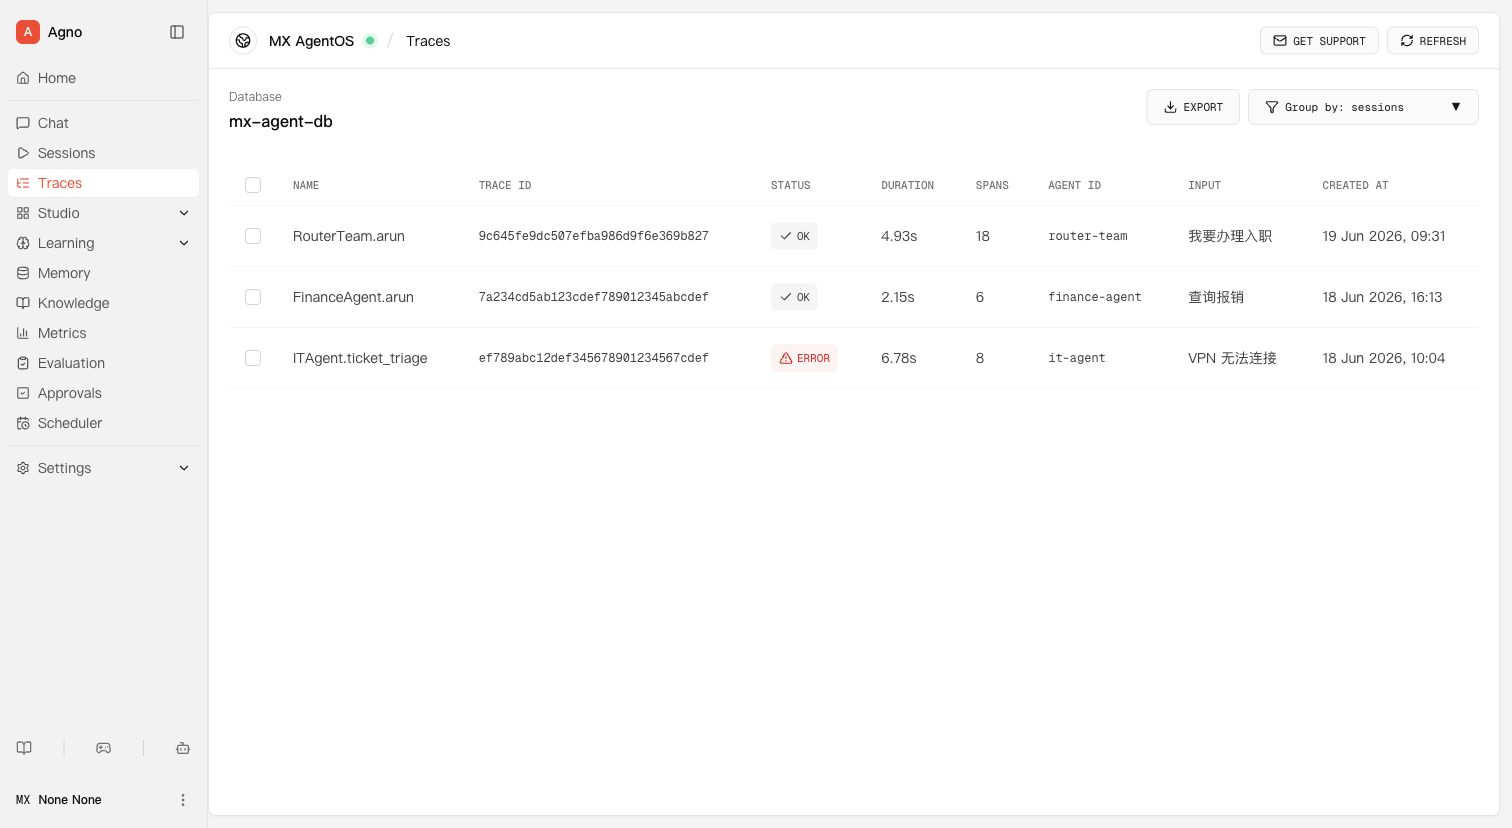
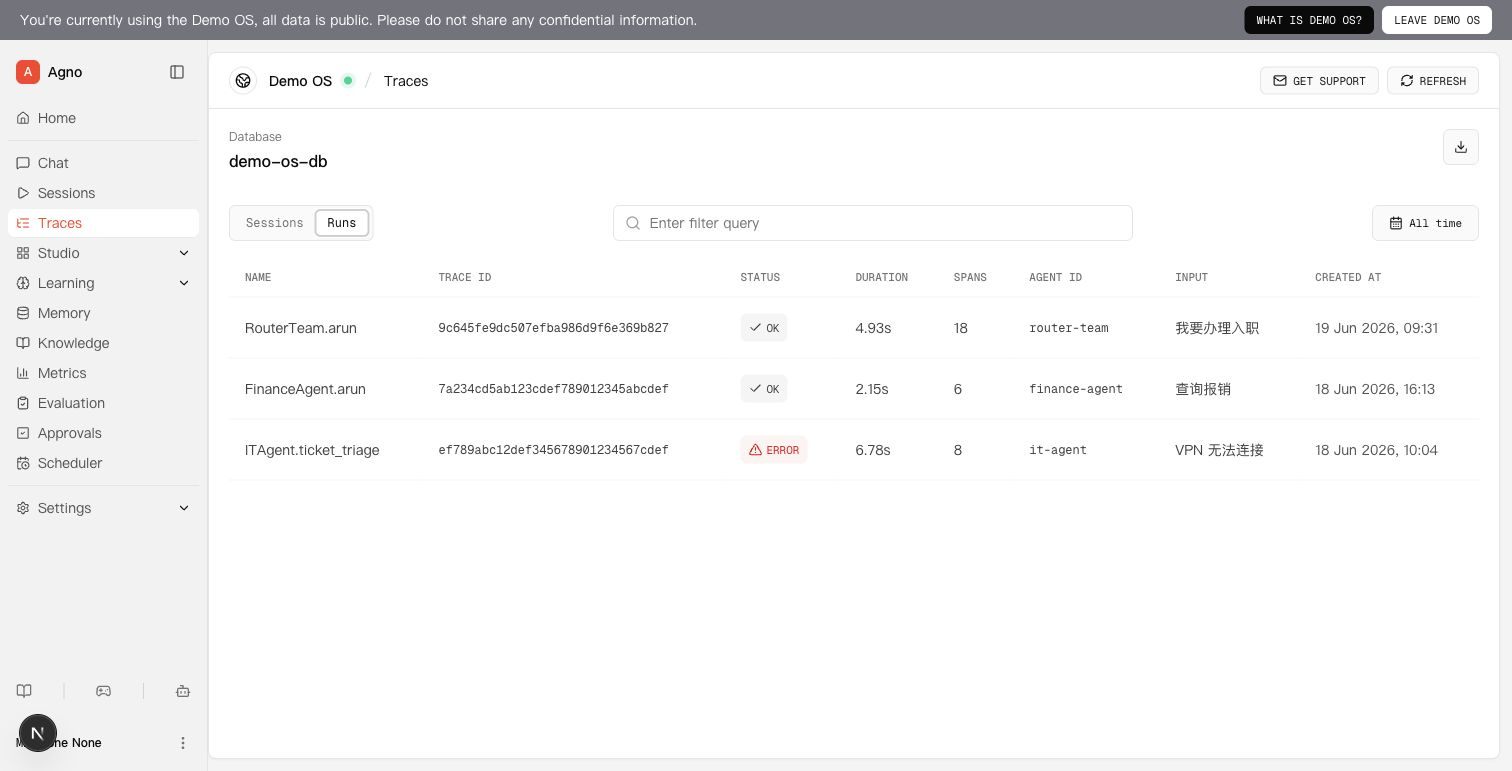
test(视觉矩阵): 添加 Traces Runs 列表门禁

diff --git a/frontend/src/components/agentos/trace-explorer.tsx b/frontend/src/components/agentos/trace-explorer.tsx
@@ -19,6 +19,7 @@ import type { TableResponse } from "@/lib/agentos-types";
 import { cn } from "@/lib/utils";
 
 type TraceTab = "info" | "metadata";
+type TraceView = "sessions" | "runs";
 type TextMode = "text" | "formatted";
 
 const traceSpans = [
@@ -86,11 +87,15 @@ function StatusBadge({ status }: { status: string }) {
 export function TraceExplorer({ table }: { table: TableResponse }) {
   const [selectedId, setSelectedId] = useState<string | null>(null);
   const [exported, setExported] = useState(false);
+  const [traceView, setTraceView] = useState<TraceView>("sessions");
   const displayDatabase = table.database === "mx-agent-db" ? "demo-os-db" : table.database;
 
   const selectedRow = useMemo(
-    () => traceSessionRows.find((row) => row.id === selectedId) ?? null,
-    [selectedId],
+    () =>
+      traceView === "sessions"
+        ? traceSessionRows.find((row) => row.id === selectedId) ?? null
+        : table.rows.find((row) => value(row, "id", "") === selectedId) ?? null,
+    [selectedId, table.rows, traceView],
   );
 
   if (selectedRow) {
@@ -120,10 +125,30 @@ export function TraceExplorer({ table }: { table: TableResponse }) {
 
       <div className="mb-4 flex items-center justify-between gap-4">
         <div className="inline-flex h-9 rounded-md border border-neutral-200 bg-neutral-50 p-1 font-mono text-xs uppercase">
-          <button className="h-full rounded-sm bg-white px-3 shadow-sm" type="button">
+          <button
+            className={cn(
+              "h-full rounded-sm px-3",
+              traceView === "sessions" ? "bg-white shadow-sm" : "text-neutral-500",
+            )}
+            onClick={() => {
+              setTraceView("sessions");
+              setSelectedId(null);
+            }}
+            type="button"
+          >
             Sessions
           </button>
-          <button className="h-full rounded-sm px-3 text-neutral-500" type="button">
+          <button
+            className={cn(
+              "h-full rounded-sm px-3",
+              traceView === "runs" ? "bg-white shadow-sm" : "text-neutral-500",
+            )}
+            onClick={() => {
+              setTraceView("runs");
+              setSelectedId(null);
+            }}
+            type="button"
+          >
             Runs
           </button>
         </div>
@@ -142,39 +167,102 @@ export function TraceExplorer({ table }: { table: TableResponse }) {
       </div>
 
       <div className="min-h-0 flex-1 overflow-auto">
-        <table className="w-full border-collapse text-left text-sm">
-          <thead>
-            <tr className="border-b border-neutral-100 text-[11px] uppercase text-neutral-500">
-              <th className="px-4 py-3 font-mono font-medium">Session ID</th>
-              <th className="px-4 py-3 font-mono font-medium">User</th>
-              <th className="px-4 py-3 font-mono font-medium">Agent/Team/Workflow</th>
-              <th className="px-4 py-3 font-mono font-medium">Traces</th>
-              <th className="px-4 py-3 font-mono font-medium">First Trace</th>
-              <th className="px-4 py-3 font-mono font-medium">Last Trace</th>
-            </tr>
-          </thead>
-          <tbody>
-            {traceSessionRows.map((row) => {
-              const id = String(row.id);
-              return (
-                <tr
-                  className="h-14 cursor-pointer border-b border-neutral-100 text-neutral-700 hover:bg-neutral-50"
-                  key={id}
-                  onClick={() => setSelectedId(id)}
-                >
-                  <td className="px-4 py-4 font-mono text-xs">{row.session_id}</td>
-                  <td className="px-4 py-4">{row.user}</td>
-                  <td className="px-4 py-4">{row.target}</td>
-                  <td className="px-4 py-4">{row.traces}</td>
-                  <td className="px-4 py-4 text-neutral-600">{row.first_trace}</td>
-                  <td className="px-4 py-4 text-neutral-600">{row.last_trace}</td>
-                </tr>
-              );
-            })}
-          </tbody>
-        </table>
+        {traceView === "sessions" ? (
+          <SessionsTraceTable onSelect={setSelectedId} />
+        ) : (
+          <RunsTraceTable columns={table.columns} onSelect={setSelectedId} rows={table.rows} />
+        )}
       </div>
     </div>
+  );
+}
+
+function SessionsTraceTable({ onSelect }: { onSelect: (id: string) => void }) {
+  return (
+    <table className="w-full border-collapse text-left text-sm">
+      <thead>
+        <tr className="border-b border-neutral-100 text-[11px] uppercase text-neutral-500">
+          <th className="px-4 py-3 font-mono font-medium">Session ID</th>
+          <th className="px-4 py-3 font-mono font-medium">User</th>
+          <th className="px-4 py-3 font-mono font-medium">Agent/Team/Workflow</th>
+          <th className="px-4 py-3 font-mono font-medium">Traces</th>
+          <th className="px-4 py-3 font-mono font-medium">First Trace</th>
+          <th className="px-4 py-3 font-mono font-medium">Last Trace</th>
+        </tr>
+      </thead>
+      <tbody>
+        {traceSessionRows.map((row) => {
+          const id = String(row.id);
+          return (
+            <tr
+              className="h-14 cursor-pointer border-b border-neutral-100 text-neutral-700 hover:bg-neutral-50"
+              key={id}
+              onClick={() => onSelect(id)}
+            >
+              <td className="px-4 py-4 font-mono text-xs">{row.session_id}</td>
+              <td className="px-4 py-4">{row.user}</td>
+              <td className="px-4 py-4">{row.target}</td>
+              <td className="px-4 py-4">{row.traces}</td>
+              <td className="px-4 py-4 text-neutral-600">{row.first_trace}</td>
+              <td className="px-4 py-4 text-neutral-600">{row.last_trace}</td>
+            </tr>
+          );
+        })}
+      </tbody>
+    </table>
+  );
+}
+
+function RunsTraceTable({
+  columns,
+  onSelect,
+  rows,
+}: {
+  columns: TableResponse["columns"];
+  onSelect: (id: string) => void;
+  rows: TableResponse["rows"];
+}) {
+  return (
+    <table className="w-full border-collapse text-left text-sm">
+      <thead>
+        <tr className="border-b border-neutral-100 text-[11px] uppercase text-neutral-500">
+          {columns.map((column) => (
+            <th className="px-4 py-3 font-mono font-medium" key={column.key}>
+              {column.label}
+            </th>
+          ))}
+        </tr>
+      </thead>
+      <tbody>
+        {rows.map((row, index) => {
+          const id = value(row, "id", `trace-${index}`);
+          return (
+            <tr
+              className="h-14 cursor-pointer border-b border-neutral-100 text-neutral-700 hover:bg-neutral-50"
+              key={id}
+              onClick={() => onSelect(id)}
+            >
+              {columns.map((column) => {
+                const cell = value(row, column.key, "—");
+                return (
+                  <td
+                    className={cn(
+                      "max-w-[260px] truncate px-4 py-4",
+                      column.mono && "font-mono text-xs",
+                      column.key === "created_at" && "text-neutral-600",
+                    )}
+                    key={`${id}-${column.key}`}
+                    title={cell}
+                  >
+                    {column.key === "status" ? <StatusBadge status={cell} /> : cell}
+                  </td>
+                );
+              })}
+            </tr>
+          );
+        })}
+      </tbody>
+    </table>
   );
 }
 

diff --git a/docs/agno-analysis/phase-1-verification.md b/docs/agno-analysis/phase-1-verification.md
@@ -1494,3 +1494,27 @@ repeatable measurement path for subsequent page-by-page iterations.
 - Added `sessions-row-click` using the compact 1512 x 772 viewport.
 - `pnpm visual:diff` now reports `44/44 passed`.
 - `sessions-row-click`: passed, different ratio `0.107023` against max `0.14`.
+
[phone redacted] Traces runs-list visual diff matrix expansion:
+
+- Rechecked
+  `https://os.agno.com/try-demo/traces?group_by=sessions&page=1&limit=25`
+  with Chrome/CDP. In the current anonymous Chrome session the route redirects
+  to
+  `https://os.agno.com/signin?callbackUrl=%2Ftry-demo%2Ftraces%3Fgroup_by%3Dsessions%26page%3D1%26limit%3D25`.
+- Observed auth traffic includes `GET https://os-api.agno.com/api/v1/users/me`,
+  `POST https://os-api.agno.com/api/v1/auth/authenticate`,
+  `POST https://os-api.agno.com/api/v1/auth/demo-sdk-token`, and
+  `POST https://os-api.agno.com/api/v1/auth/authrefresh`, all returning 401 in
+  the anonymous session before the sign-in page renders.
+- Preserved the previously captured Agno Traces list reference and expanded the
+  local segmented control so `Sessions` renders the grouped session table while
+  `Runs` renders the trace list table.
+- Re-captured `docs/agno-analysis/local-screenshots/traces-list.png` at
+  1512 x 771 after clicking `Runs`, verifying columns `NAME`, `TRACE ID`,
+  `STATUS`, `DURATION`, `SPANS`, `AGENT ID`, `INPUT`, and `CREATED AT`.
+- Added `desktop-traces-list` and `traces-list` to the official screenshot
+  comparison matrix.
+- `pnpm visual:diff` now reports `45/45 passed`.
+- `traces-list`: passed, different ratio `0.074854` against max `0.14`.
+- `pnpm lint` passed for the frontend component change.

diff --git a/docs/agno-analysis/page-inventory.md b/docs/agno-analysis/page-inventory.md
@@ -246,9 +246,12 @@ All screenshots were captured from the public Demo OS surface at a 1512 x 828 vi
 
 - Public demo state can show a `No traces logged` overlay while preserving a
   blurred trace-detail surface behind it.
-- Current public Demo OS state at
+- Previously captured public Demo OS state at
   `/try-demo/traces?group_by=sessions&page=1&limit=25` renders the grouped
   Sessions table instead of the older empty overlay.
+- Current anonymous Chrome state on 2026-06-19 redirects
+  `/try-demo/traces?group_by=sessions&page=1&limit=25` to `/signin` after
+  `users/me`, `auth/authenticate`, and `demo-sdk-token` return 401.
 - Authenticated/account state can show an inactive-AgentOS overlay over the
   traces table when the connected AgentOS is unreachable.
 - Grouped Sessions controls include `Sessions`/`Runs` segments, filter query
@@ -271,11 +274,18 @@ All screenshots were captured from the public Demo OS surface at a 1512 x 828 vi
   - 2026-06-19 follow-up: rechecked the public Demo OS route and observed
     populated grouped-session rows plus `/traces/filter-schema`, `/traces`,
     `/trace_session_stats`, and `/config` requests.
+  - 2026-06-19 later follow-up: the same route redirects the current anonymous
+    Chrome session to sign-in, so new implementation work preserves the
+    previously captured product references while documenting the current auth
+    gate.
   - Local implementation now mirrors the current public Demo OS grouped
     Sessions table state and keeps the trace detail explorer available after row
     click for subsequent trace-detail iteration.
-  - Traces is covered by the desktop screenshot diff gate for the grouped
-    Sessions table state.
+  - Local Traces supports the `Sessions` and `Runs` segmented states. `Runs`
+    renders the trace list columns Name, Trace ID, Status, Duration, Spans,
+    Agent ID, Input, and Created At.
+  - Traces is covered by desktop screenshot diff gates for both the grouped
+    Sessions table and the Runs trace-list table.
 
 ### Memory
 

diff --git a/docs/agno-analysis/visual-diffs/report.md b/docs/agno-analysis/visual-diffs/report.md
@@ -1,10 +1,10 @@
 # Visual Diff Report
 
-Generated: 2026-06-19T13:21:06.891Z
+Generated: 2026-06-19T13:28:42.964Z
 
 Config: `docs/agno-analysis/screenshot-comparison.config.json`
 
-Totals: 44/44 passed, 0 failed.
+Totals: 45/45 passed, 0 failed.
 
 | Status | Pair | Viewport | Reference | Local | Different ratio | Max ratio | Diff |
 | --- | --- | --- | --- | --- | --- | --- | --- |
@@ -39,6 +39,7 @@ pass | scheduler-gated-overlay | desktop | 1512x828 | 1512x828 | 0.057759 | 0.08
 pass | evaluation-list | desktop | 1512x828 | 1512x828 | 0.067094 | 0.12 | docs/agno-analysis/visual-diffs/diffs/evaluation-list.diff.png
 pass | evaluation-detail | desktop | 1512x828 | 1512x828 | 0.107163 | 0.12 | docs/agno-analysis/visual-diffs/diffs/evaluation-detail.diff.png
 pass | traces-sessions-table | desktop-compact | 1512x772 | 1512x772 | 0.058645 | 0.08 | docs/agno-analysis/visual-diffs/diffs/traces-sessions-table.diff.png
+pass | traces-list | desktop-traces-list | 1512x771 | 1512x771 | 0.074854 | 0.14 | docs/agno-analysis/visual-diffs/diffs/traces-list.diff.png
 pass | learning-user-memory-loading | desktop-compact | 1512x772 | 1512x772 | 0.025909 | 0.08 | docs/agno-analysis/visual-diffs/diffs/learning-user-memory-loading.diff.png
 pass | learning-user-profile-table | desktop | 1512x828 | 1512x828 | 0.115811 | 0.14 | docs/agno-analysis/visual-diffs/diffs/learning-user-profile-table.diff.png
 pass | learning-entity-memory-table | desktop | 1512x828 | 1512x828 | 0.116153 | 0.14 | docs/agno-analysis/visual-diffs/diffs/learning-entity-memory-table.diff.png